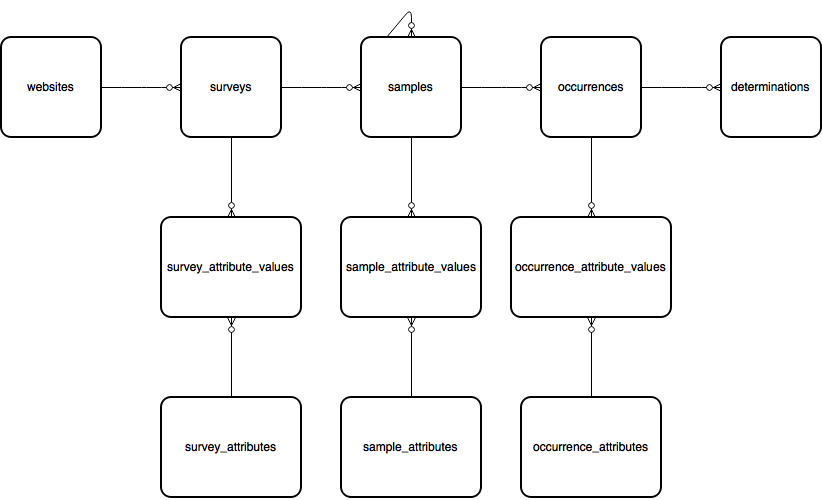
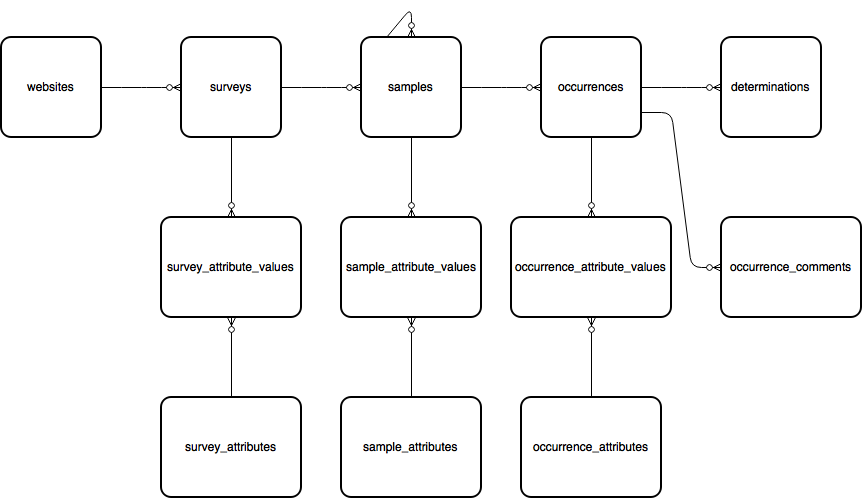
Additional docs on occurrences
* Record status and substrates
* occurrence_comments

diff --git a/developing/data-model.rst b/developing/data-model.rst
@@ -96,11 +96,49 @@ any taxonomic information - we'll cover that in a moment.
   order by o.id desc
   limit 1
 
+A key aspect of thee occurrences table is the ability to easily track the status of a
+record especially with respect to quality. This is achieved using 2 fields, record_status
+and record_substatus. The record_status field provides the broad status of the record and
+the optional record_substatus field provides a greater level of granularity. The
+record_status has the following possibilities:
+
+  * V = verified or accepted
+  * C = data entry complete and pending check
+  * R = rejected or not accepted
+
+When the record_status is combined with the record_substatus the possibilities are as
+follows:
+
+  * V + null = verified or accepted
+  * V + 1 = verified or accepted as correct (i.e. accepted as beyond reasonable doubt, e.g.
+    if specimen or good photographic evidence available).
+  * V + 2 = verified or accepted as considered correct (i.e. accepted but without
+    photographic or voucher specimen evidence)
+  * C + 3 = data entry complete, checked but not conclusive, marked as plausible.
+  * C + null = data entry complete and pending check
+  * C + 4 = rejected as considered incorrect
+  * C + 5 = rejected as incorrect (i.e. evidence available to prove it is incorrect beyond
+    reasonable doubt).
+
+Therefore a query to obtain all accepted records can simply filter on record_status=V and
+ignore the substatus.
+
+occurrence_comments
+-------------------
+
+The occurrence comments contains a log of all comments, including:
+
+  * those made by recorders on each others records
+  * queries made by experts
+  * verification decisions made by experts
+  * comments added by automatic record quality checks, e.g. flagging records outside the
+    expected range or time of year.
+
 determinations
 --------------
 
 Where there have been multiple opinions on the identification of a record, the
-determinations table contains _previous_ identification details.
+determinations table contains *previous* identification details.
 
 taxon_lists > taxa_taxon_lists > taxa
 =====================================
@@ -474,6 +512,14 @@ Location data
 
 Locations and location data deserves a special mention in any overview of the data model.
 
+When a polygon (e.g. a grid square or transect line) does not need to be re-used in the
+database, it may be appropriate to simply store the polygon in the geom attribute of the
+samples table. No other metadata relating to the polygon itself is collected in this
+instance (other than the point-in-time attribute values captured with the sample). Once
+a polygon needs to have some sort of persistent meaning in the database, for example
+a site that may be revisited, or an administrative boundary, it should be stored in the
+locations table.
+
 locations
 ---------
 
@@ -483,6 +529,25 @@ has geometry fields for the centroid and boundary which are proper spatial objec
 that use the PostGIS extensions for PostgreSQL. This means you can use the rich suite of
 PostGIS functions in your queries.
 
+Once a location has been added to the table, it may be used in several ways:
+
+  * As a filter for generating report outputs.
+  * Linked to a sample using a foreign key in samples.location_id. Note that a sample may
+    lie inside a boundary of a location without the sample linking directly to the location
+    - this means the relationship to the location would need to be implied by a spatial
+    query rather than a traditional database relationship.
+  * Any layer of locations which is frequently tagged against a record (e.g. vice counties
+    or other region) can be indexed using the warehouse spatial_index_builder module. This
+    module then runs spatial queries to link all the samples in the database to the
+    locations in the indexed layer and stores these links in the database. For example
+    the cache_occurrences.location_id_vice_county field gives a direct link to a record's
+    vice county in the BRC warehouse configuration.
+
+Spatial query support
+---------------------
+
+Indicia's database is spatially enabled, which means that it has an understanding of the
+shape data it contains and can perform functions such as near, distance, intersections etc.
 Geometry fields are stored in the database using an internal binary format. In order to
 make the field format usable by humans you can use the built in PostGIS functions
 st_geomfromtext and st_astext, e.g.

diff --git a/developing/example-queries.rst b/developing/example-queries.rst
@@ -67,3 +67,16 @@ Find a list of all species in the same polygon:
     )
   )
   order by cttl.kingdom_taxon, cttl.order_taxon, cttl.family_taxon, cttl.preferred_taxon;
+
+Find all species in a vice county, assuming that a layer of vice counties has been
+configured in the warehouse spatial index builder module:
+
+.. code-block::
+
+  select o.id,
+  cttl.taxon,
+  snf.public_entered_sref,
+  vague_date_to_string(o.date_start, o.date_end, o.date_type)
+  from cache_occurrences_functional o
+  join locations l on l.id=o.location_id_vice_county and l.deleted=false
+  where l.name='Dorset';
